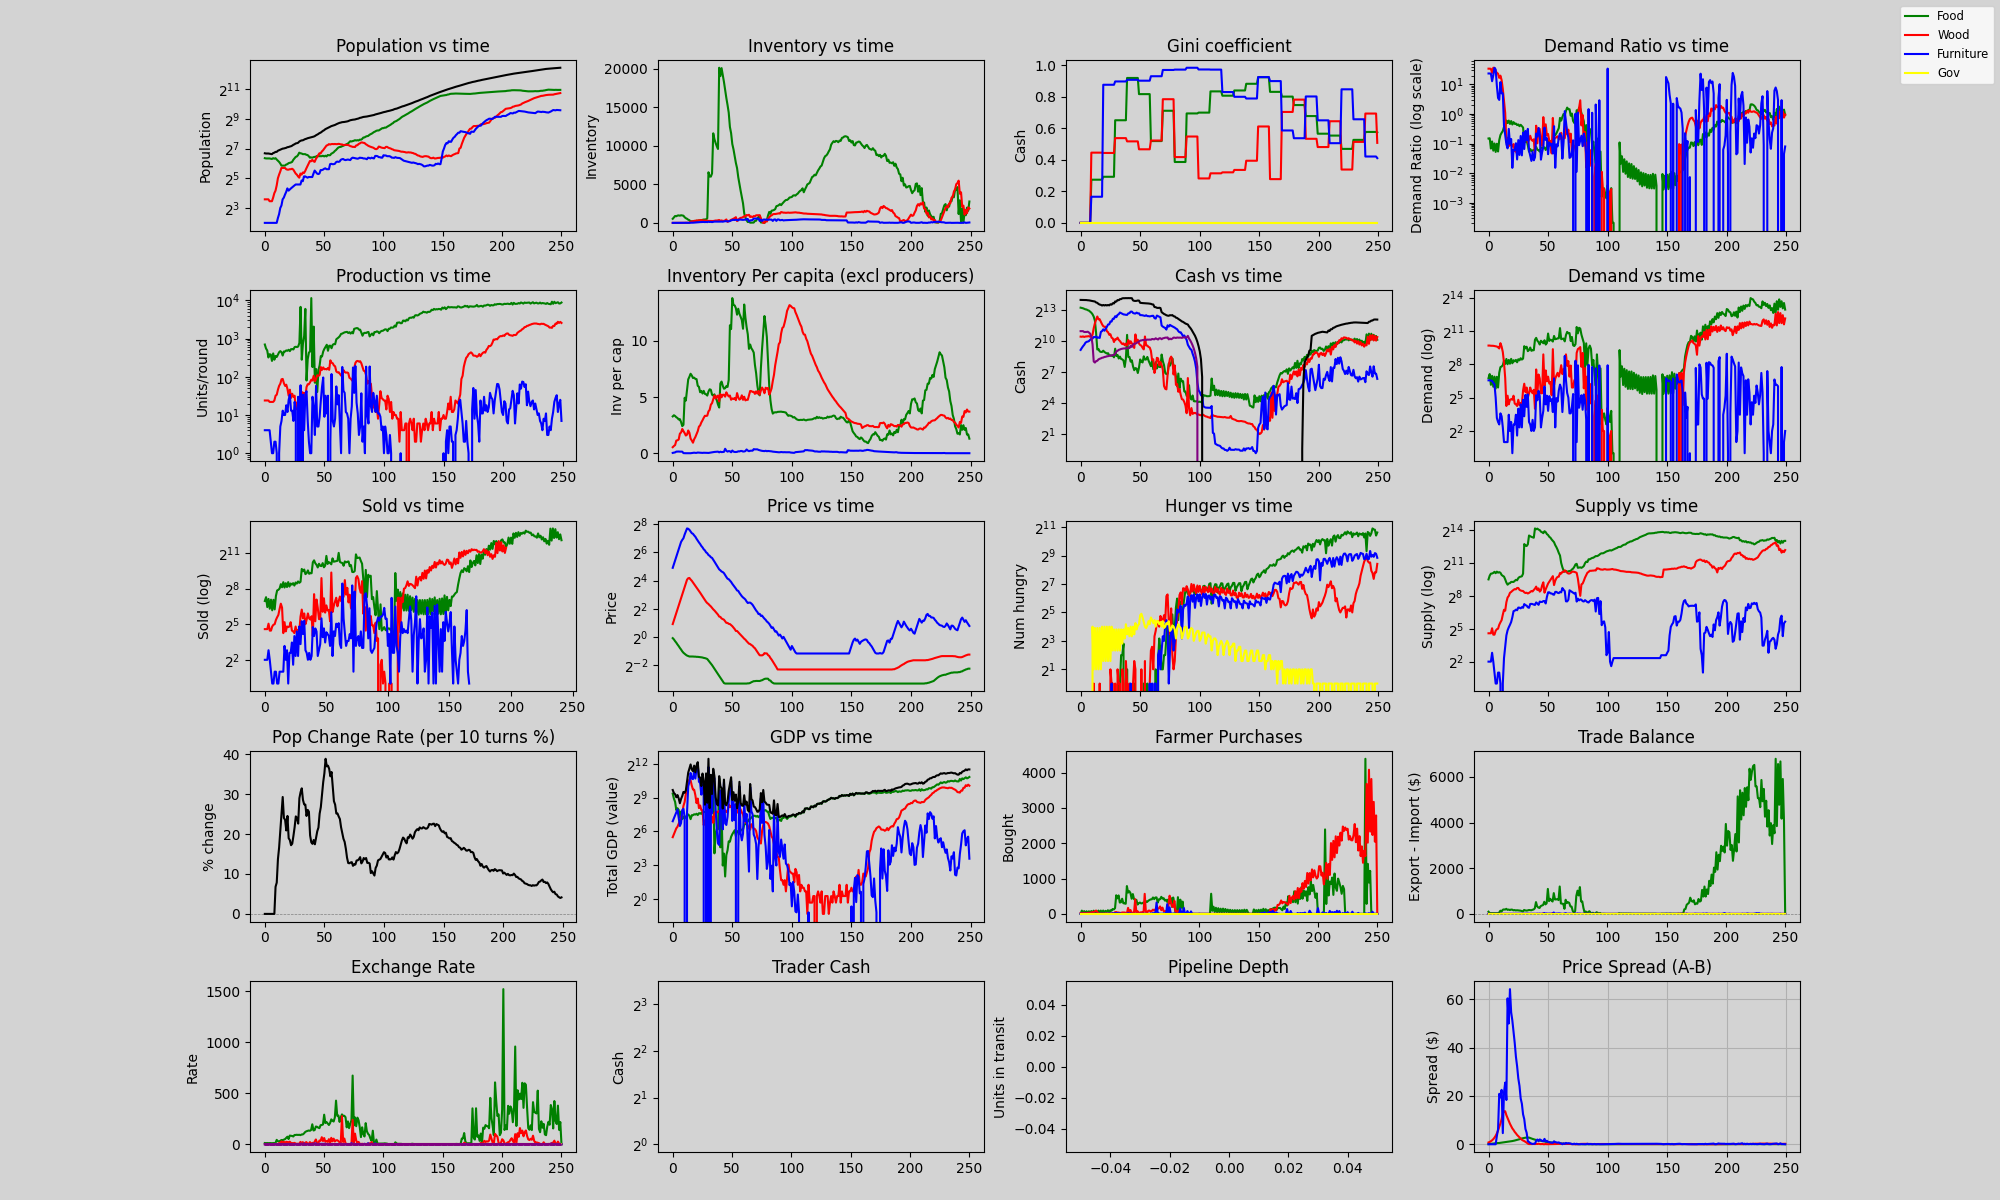
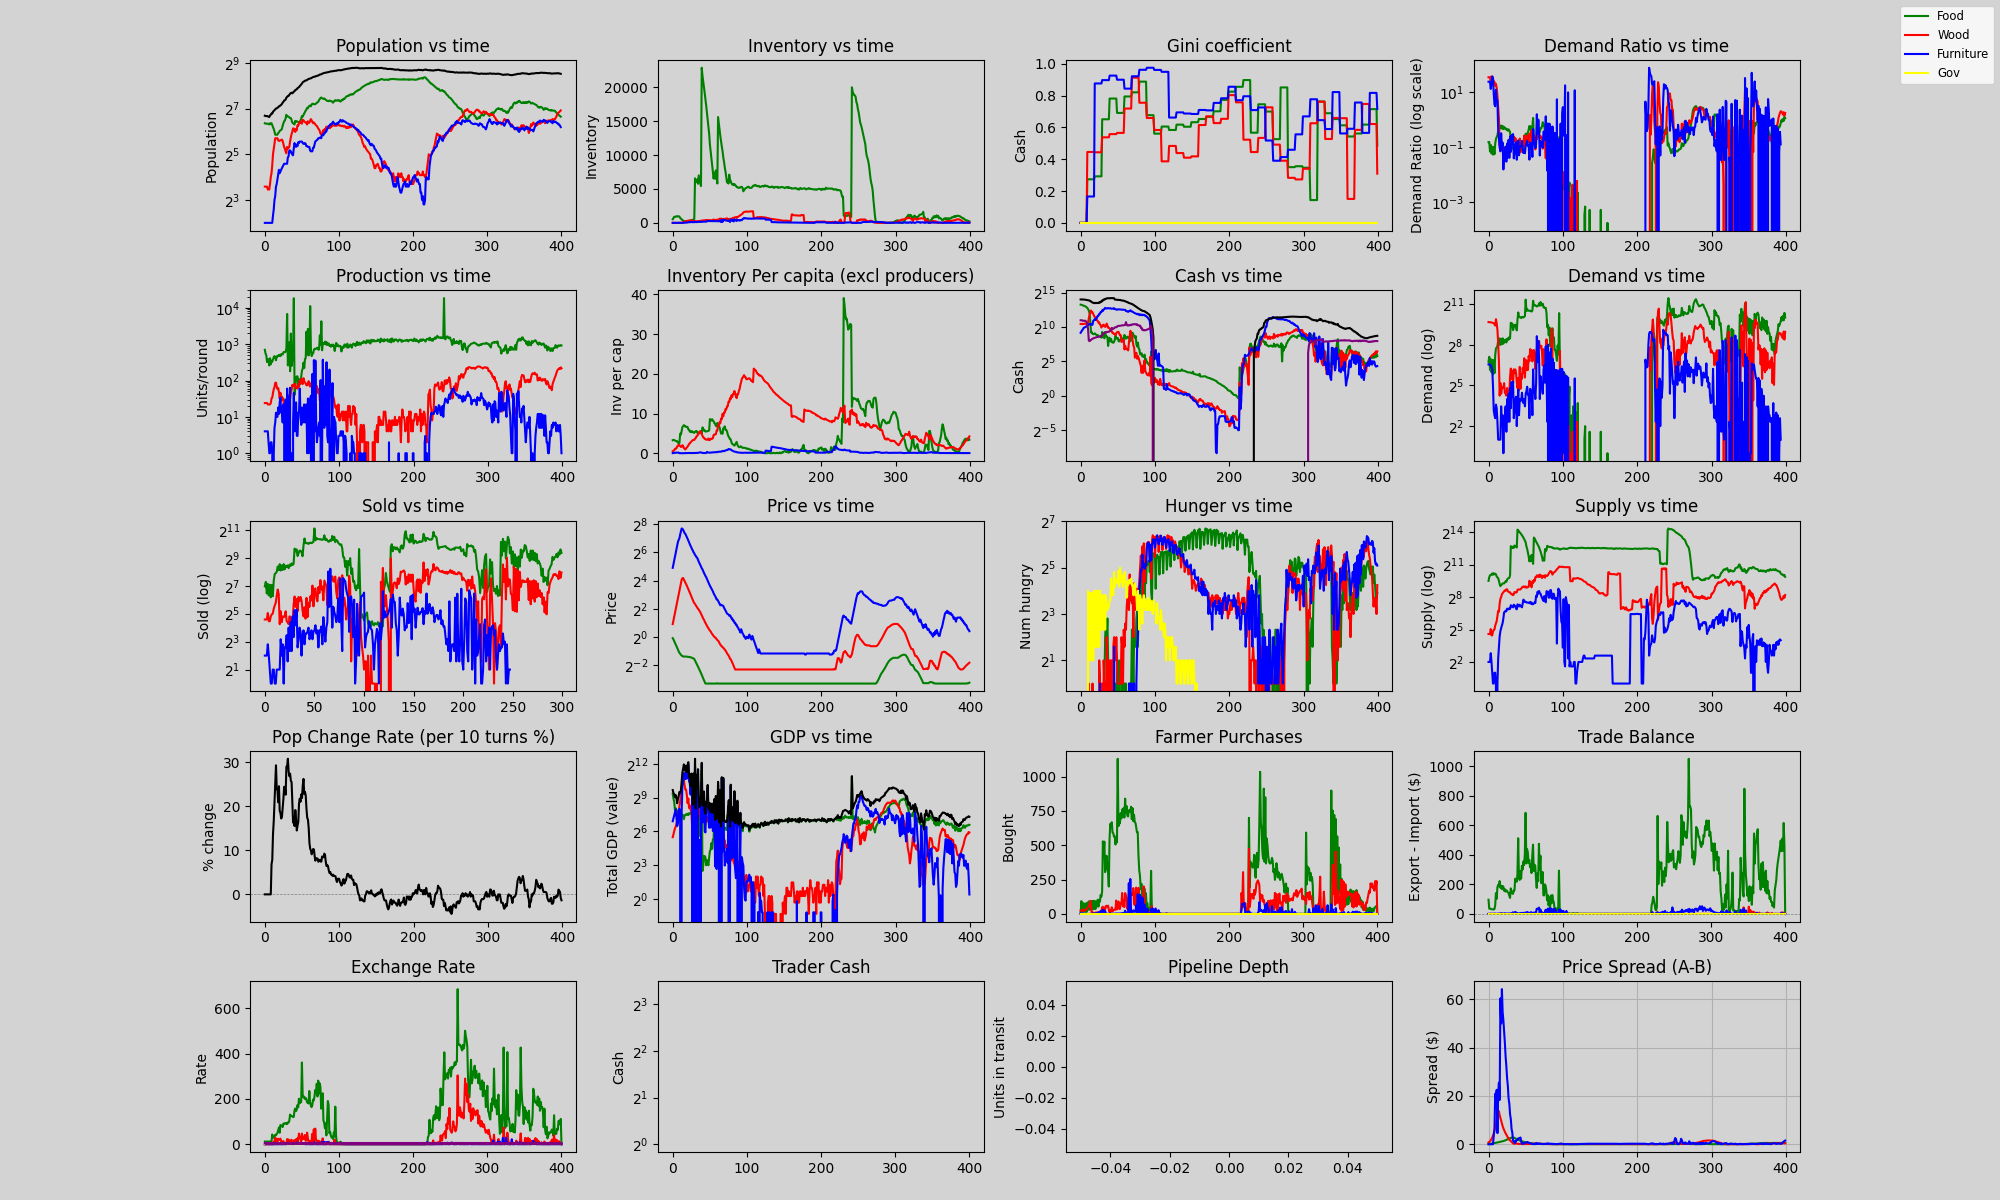
added carrying capacity per region

diff --git a/econsim_live.py b/econsim_live.py
@@ -39,7 +39,8 @@ class LiveContext:
     birth_gap: int
     bank: Any                       # Bank singleton (trade.bank or region.bank)
     most_demand: Any                # Goods enum (computed value)
-    max_agents: int = 10000         # Hard population cap (0 = unlimited)
+    max_agents: int = 400         # Hard population cap (0 = unlimited)
+    carrying_capacity: int = 400  # Density-dependent mortality soft ceiling
 
 
 # =============================================================================
@@ -381,6 +382,14 @@ def _handle_death(ctx: LiveContext, t, agent, agents):
                 agent, base_death_prob[min(agent.age(t) // 30, 9)])
         else:
             adjusted_prob = base_death_prob[min(agent.age(t) // 30, 9)]
+        # Density-dependent mortality: death probability ramps up as population
+        # approaches carrying_capacity (logistic-style soft ceiling).
+        current_pop = len(agents)
+        threshold = ctx.carrying_capacity * 0.85  # ~340
+        if current_pop > threshold:
+            overage = current_pop - threshold
+            crowding_factor = 1.0 + (overage / (ctx.carrying_capacity * 0.15)) * 4.0
+            adjusted_prob *= crowding_factor
         if rand.random() > adjusted_prob:
             return False  # survived
         agent.alive = False

diff --git a/region.py b/region.py
@@ -38,7 +38,7 @@ except ImportError:
 _recipes_init = {
     Goods.food: {
         'commodity': Goods.food, 'production': 5, 'price': 1, 'numInput': 0,
-        'maxtotalprod': 10000, 'maxinv': 20,
+        'maxtotalprod': 2000, 'maxinv': 20,
     },
     Goods.wood: {
         'commodity': Goods.wood, 'production': 2, 'price': 1, 'numInput': 0,
@@ -68,7 +68,7 @@ DEFAULT_PROFESSION_DISTRIBUTION = {
 # SoA constant: max pre-allocated slots
 # =============================================================================
 
-MAX_AGENTS = 10000
+MAX_AGENTS = 500
 
 
 # =============================================================================
@@ -968,6 +968,7 @@ class Region:
             bank=self.bank,
             most_demand=self.most_demand,
             max_agents=self.max_agents,
+            carrying_capacity=self.max_agents,
         )
         result = _lm.Live(t, self.agents, context=ctx)
 

diff --git a/econsim.py b/econsim.py
@@ -511,6 +511,7 @@ def main():
             birth_gap=birth_gap,
             bank=trade.bank,
             most_demand=Goods.food,
+            carrying_capacity=400,
         )
         cash_before_live = get_total_cash(agents, trade.bank)
         agents = Living.Live(t, agents, context=_live_ctx)
